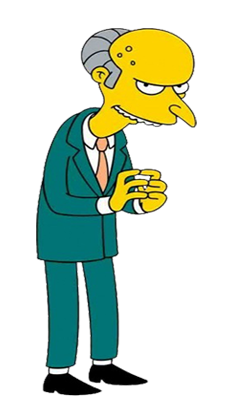
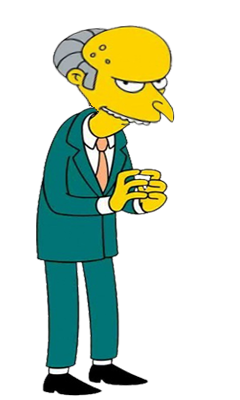
corrigido o  inimigo Mr Burns a nível de posicionamento. Complementado o surgir um inimigo diferente para cada perfil

Changed region(s): [[0.2042, 0.06, 0.8167, 0.33]]

diff --git a/SetepassosPRJ/wwwroot/lib/bootstrap/dist/css/bootstrap.css b/SetepassosPRJ/wwwroot/lib/bootstrap/dist/css/bootstrap.css
@@ -2297,7 +2297,10 @@ th {
 .table-condensed > thead > tr > th,
 .table-condensed > tbody > tr > th,
 .table-condensed > tfoot > tr > th,
-.table-condensed > thead > tr > td,
+.table-condensed > thead > tr > td {
+    background-color:rebeccapurple;
+    padding: 5px;
+}
 .table-condensed > tbody > tr > td,
 .table-condensed > tfoot > tr > td {
   padding: 5px;
@@ -2312,13 +2315,15 @@ th {
 .table-bordered > tbody > tr > td,
 .table-bordered > tfoot > tr > td {
   border: 1px solid #ddd;
+  padding: 5px;
 }
 .table-bordered > thead > tr > th,
 .table-bordered > thead > tr > td {
   border-bottom-width: 2px;
 }
 .table-striped > tbody > tr:nth-of-type(odd) {
-  background-color: #f9f9f9;
+  background-color:darkviolet;
+  padding: 5px;
 }
 .table-hover > tbody > tr:hover {
   background-color: #f5f5f5;
@@ -2346,7 +2351,8 @@ table th[class*="col-"] {
 .table > thead > tr.active > th,
 .table > tbody > tr.active > th,
 .table > tfoot > tr.active > th {
-  background-color: #f5f5f5;
+    background-color: #f5f5f5;
+    padding: 5px;
 }
 .table-hover > tbody > tr > td.active:hover,
 .table-hover > tbody > tr > th.active:hover,

diff --git a/SetepassosPRJ/wwwroot/css/site.css b/SetepassosPRJ/wwwroot/css/site.css
@@ -384,8 +384,8 @@ h4 {
 }
 .danoNoMonstro {
     position:relative;
-    left: 32%;
-    top:4%;
+    left: 36%;
+    top:1%;
     color:lavender;
     font-family: Verdana;
     font-size: 1.7vw;

diff --git a/SetepassosPRJ/Models/Jogo.cs b/SetepassosPRJ/Models/Jogo.cs
@@ -237,15 +237,15 @@ namespace SetepassosPRJ.Models
                     //Mensagem ataque personalizada
                     if (PerfilTipo == "S")
                     {
-                        MensagemMeuAtaque = "Deste um arroto mortífero...";
+                        MensagemMeuAtaque = "Atiraste um gato!";
                     }
                     if (PerfilTipo == "B")
                     {
-                        MensagemMeuAtaque = "Mandaste-lhe com a calculadora.";
+                        MensagemMeuAtaque = "Deste um arroto mortífero...";
                     }
                     if (PerfilTipo == "W")
                     {
-                        MensagemMeuAtaque = "Atiraste um gato!";
+                        MensagemMeuAtaque = "Mandaste-lhe com a calculadora.";
                     }
                     //Detetar se monstro morre
                     if (Monstro == false)
